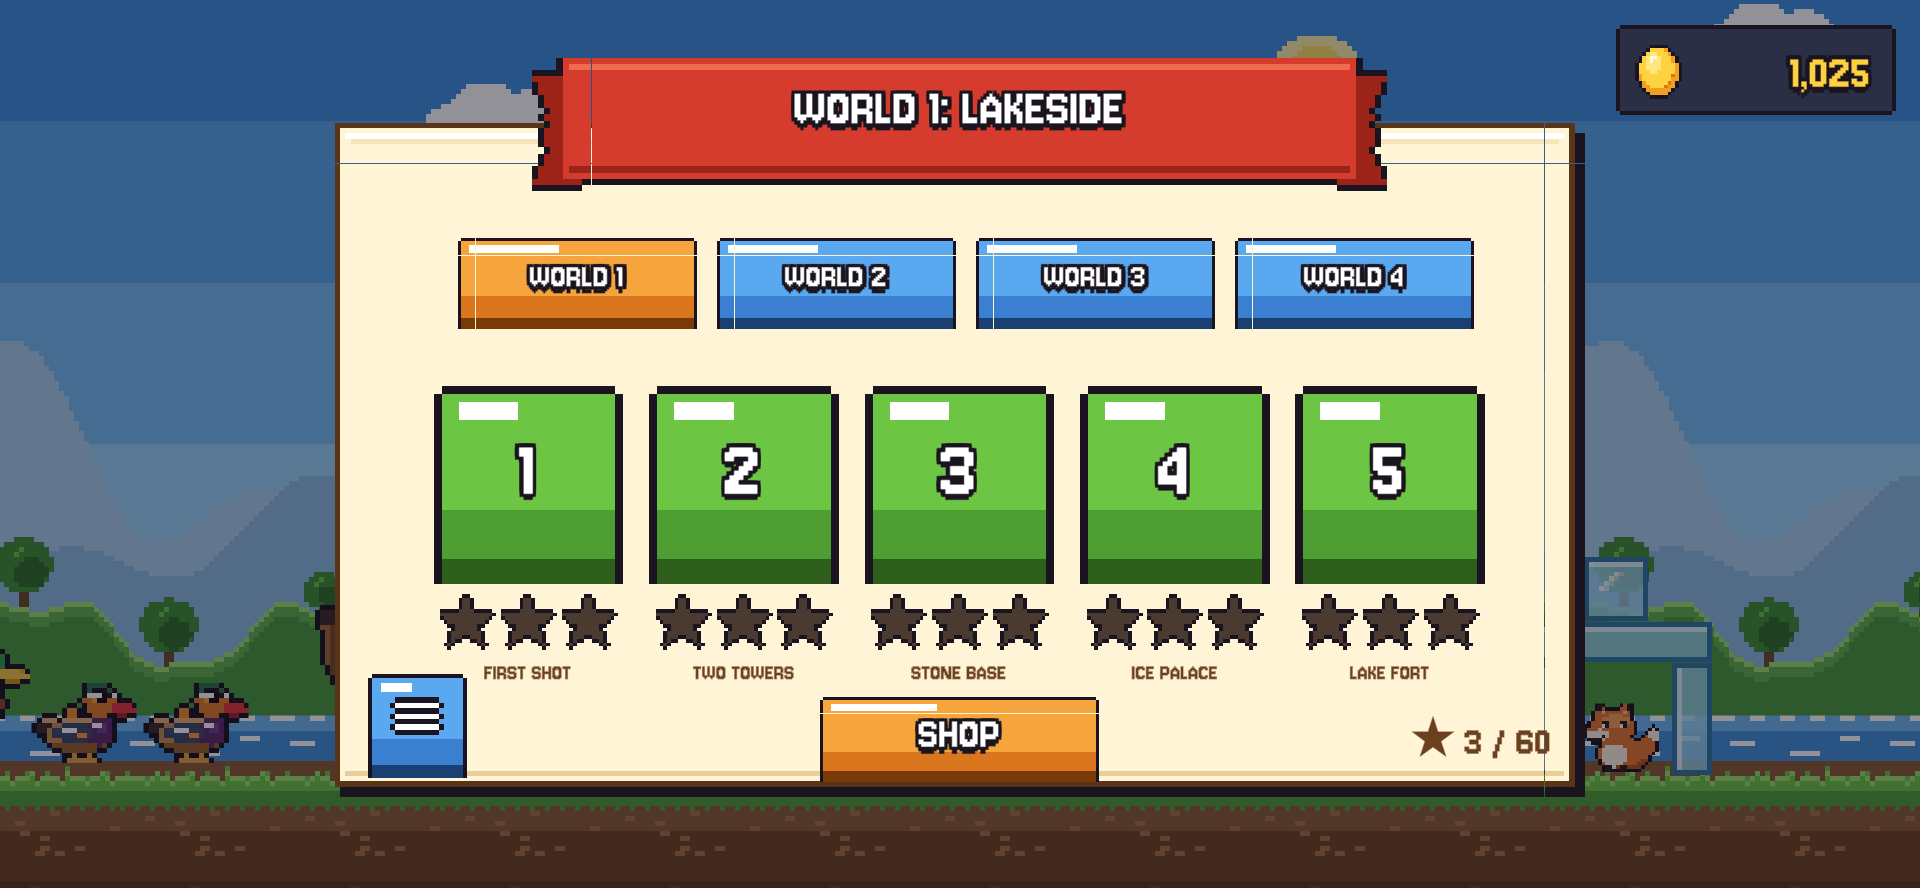
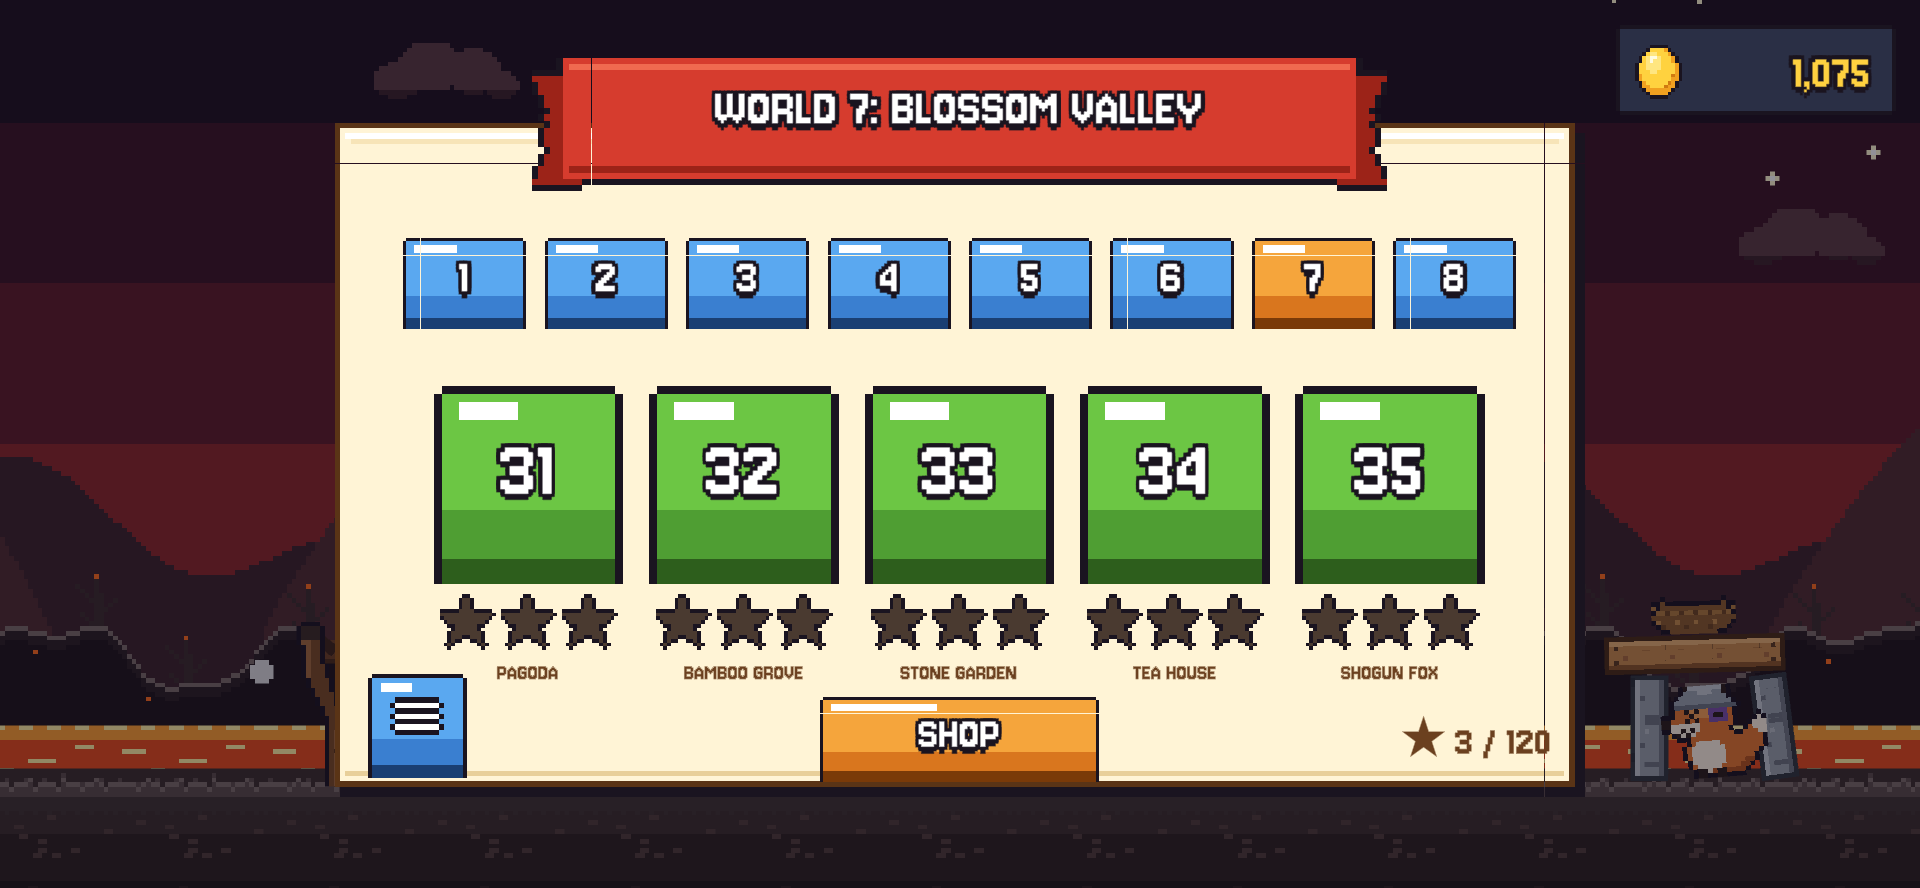
Docs: 40 levels / 8 worlds, tiered difficulty, audio, accounts & IAP plan
Claude-Session: https://claude.ai/code/session_019QKTqMNP3wFbmRnbw3M5ij

diff --git a/docs/index.html b/docs/index.html
@@ -6,7 +6,7 @@
 <title>DuckThis Feather Fury</title>
 <meta name="description" content="A pixel-art physics slingshot game for Android starring six kinds of ducks. The foxes stole the eggs — time to take them back.">
 <meta property="og:title" content="DuckThis Feather Fury">
-<meta property="og:description" content="Pixel-art physics slingshot game for Android. 20 levels, 6 ducks, Golden Eggs & upgrades.">
+<meta property="og:description" content="Pixel-art physics slingshot game for Android. 40 levels, 8 worlds, 6 ducks, Golden Eggs & upgrades.">
 <meta property="og:image" content="media/banner.png">
 <meta name="theme-color" content="#2a2f45">
 <link rel="icon" href="media/ducks/duck.png">
@@ -155,9 +155,9 @@
       <h2>Ducks. Foxes. Physics.</h2>
       <p class="lead">The foxes stole the eggs. Pull back the slingshot, pick the right duck and bring their wood, stone, ice and TNT forts crashing down. Then spend your recovered Golden Eggs to make your flock even stronger.</p>
       <div class="stats">
-        <div class="stat"><b>20</b><span>Levels</span></div>
+        <div class="stat"><b>40</b><span>Levels</span></div>
         <div class="stat"><b>6</b><span>Duck species</span></div>
-        <div class="stat"><b>4</b><span>Themed worlds</span></div>
+        <div class="stat"><b>8</b><span>Themed worlds</span></div>
         <div class="stat"><b>7</b><span>Languages</span></div>
       </div>
     </div>
@@ -193,9 +193,9 @@
       <div><h3>Real physics</h3><p>Damage comes from impact speed, mass and material. TNT crates chain-react, and cracks show exactly what's about to give.</p></div>
       <div><h3>Auto-Aim</h3><p>Upgrade a duck and it homes in on the nearest fox mid-flight. Three levels, from a gentle nudge to a heat-seeker.</p></div>
       <div><h3>Extra ducks</h3><p>Out of ducks? Tap <b>+</b> to call in reinforcements mid-level, or continue right after losing.</p></div>
-      <div><h3>Fair difficulty</h3><p>Foxes and forts toughen up gradually across the 20 levels. Upgrades help when you're stuck.</p></div>
+      <div><h3>Tiered difficulty</h3><p>Every world is a new tier: a breather, a build-up, then a boss fortress. Each world starts a step tougher, and upgrades keep you ahead.</p></div>
       <div><h3>Pixel craft</h3><p>Hand-placed 16 px art, parallax worlds, four pixel transition styles and chiptune effects.</p></div>
-      <div><h3>7 languages</h3><p>Turkish, English, German, Spanish, French, Portuguese and Italian, detected automatically.</p></div>
+      <div><h3>Music &amp; voices</h3><p>Three chiptune soundtracks, plus a unique quack, honk, hiss or whistle for every duck species.</p></div>
     </div>
   </div>
 </section>
@@ -210,6 +210,7 @@
         <tr><td>Each star</td><td><img class="egg px" src="media/ducks/ui_egg.png" alt=""><b>+10</b></td></tr>
         <tr><td>Destruction (0–100%)</td><td><img class="egg px" src="media/ducks/ui_egg.png" alt=""><b>up to +20</b></td></tr>
         <tr><td>First clear bonus</td><td><img class="egg px" src="media/ducks/ui_egg.png" alt=""><b>+15</b></td></tr>
+        <tr><td>Golden Nest (once each)</td><td><img class="egg px" src="media/ducks/ui_egg.png" alt=""><b>+3</b></td></tr>
         <tr><td>Losing (consolation)</td><td><img class="egg px" src="media/ducks/ui_egg.png" alt=""><b>up to +8</b></td></tr>
       </table>
       <table>
@@ -225,13 +226,17 @@
 
 <section class="alt" id="worlds">
   <div class="wrap">
-    <h2>Four worlds</h2>
-    <p class="lead">Each world has its own look, its own palette and a new duck to master.</p>
+    <h2>Eight worlds</h2>
+    <p class="lead">Each world has its own look and palette, and every one is a step tougher than the last.</p>
     <div class="gallery">
       <figure><div class="frame"><img src="media/world-level3.png" alt="Lakeside" loading="lazy"></div><figcaption>1 · Lakeside</figcaption></figure>
       <figure><div class="frame"><img src="media/world-level8.png" alt="Autumn Forest" loading="lazy"></div><figcaption>2 · Autumn Forest</figcaption></figure>
       <figure><div class="frame"><img src="media/world-level14.png" alt="Snowy Peaks" loading="lazy"></div><figcaption>3 · Snowy Peaks</figcaption></figure>
       <figure><div class="frame"><img src="media/world-level19.png" alt="Sunset Farm" loading="lazy"></div><figcaption>4 · Sunset Farm</figcaption></figure>
+      <figure><div class="frame"><img src="media/world-level23.png" alt="Desert Canyon" loading="lazy"></div><figcaption>5 · Desert Canyon</figcaption></figure>
+      <figure><div class="frame"><img src="media/world-level29.png" alt="Tropical Beach" loading="lazy"></div><figcaption>6 · Tropical Beach</figcaption></figure>
+      <figure><div class="frame"><img src="media/world-level31.png" alt="Blossom Valley" loading="lazy"></div><figcaption>7 · Blossom Valley</figcaption></figure>
+      <figure><div class="frame"><img src="media/world-level40.png" alt="Fire Mountain" loading="lazy"></div><figcaption>8 · Fire Mountain</figcaption></figure>
     </div>
     <div class="frame" style="margin-top:36px"><img src="media/gameplay-split.gif" alt="A Mandarin Duck splits into three and shatters an ice tower" loading="lazy"></div>
   </div>

diff --git a/MANIFEST.md b/MANIFEST.md
@@ -11,6 +11,7 @@
 | **Title** | DuckThis Feather Fury |
 | **Developer** | DuckThisGames |
 | **Genre** | Physics puzzle, slingshot |
+| **Content** | 40 levels · 8 worlds · 6 ducks |
 | **Platform** | Android (phone, landscape) |
 | **Engine** | Unity 6000.6.6f1 |
 | **Version** | 1.0 |
@@ -90,8 +91,12 @@ style.
 | 2 | Autumn Forest | 6–10 | Merganser |
 | 3 | Snowy Peaks | 11–15 | Muscovy Duck, Ruddy Shelduck |
 | 4 | Sunset Farm | 16–20 | Black Scoter |
+| 5 | Desert Canyon | 21–25 | Golden Nests |
+| 6 | Tropical Beach | 26–30 | – |
+| 7 | Blossom Valley | 31–35 | – |
+| 8 | Fire Mountain | 36–40 | Final: Fox Emperor (two bosses) |
 
-Each world introduces a new duck with an intro card. Levels mix materials so the new duck shines. Each
+Worlds 1–4 each introduce a new duck; worlds 5–8 remix all six ducks against bigger, tougher forts. Each new element gets an intro card. Levels mix materials so the new duck shines. Each
 world has its own parallax background, color palette and pixel transition style (dissolve, iris, blinds,
 diagonal).
 
@@ -110,10 +115,42 @@ Blocks get a 0.8 s spawn grace period so structures settle safely.
 
 ## 6. Difficulty curve
 
-The difficulty factor `d` goes from 0 at level 1 to 1 at level 20 (`d = level index / 19`).
+Difficulty rises in **tiers**, not in a straight line. Each world (5 levels) is one tier, and every new
+world makes foxes and blocks one step tougher. Inside a world the curve is a **sawtooth**:
 
-- **Fox health** × (1 + 0.5 · d), reaching ×1.5 at level 20.
-- **Block durability** × (1 + 0.3 · d), reaching ×1.3 at level 20.
+```
+World:   1       2       3       4       5       6       7       8
+       ▁▂▂▃▄   ▂▃▃▄▅   ▃▄▄▅▆   ▄▅▅▆▇   ▄▅▆▆▇   ▅▆▆▇█   ▅▆▇▇█   ▆▇▇██
+       └─ each world: breather → build-up → boss, then the next tier starts a step higher
+```
+
+- **Level 1 of a world** is a breather: a new theme, a smaller fort and a spare duck.
+- **Levels 2–4** build up with mixed materials and more foxes.
+- **Level 5** is a fortress with a boss fox.
+
+The next world opens with a short **"Tier N: foxes are X% tougher!"** banner, so the jump is visible and fair.
+
+| World | 1 | 2 | 3 | 4 | 5 | 6 | 7 | 8 |
+|---|---|---|---|---|---|---|---|---|
+| Fox health | ×1.00 | ×1.08 | ×1.16 | ×1.24 | ×1.32 | ×1.40 | ×1.48 | ×1.56 |
+| Block durability | ×1.00 | ×1.05 | ×1.10 | ×1.15 | ×1.20 | ×1.25 | ×1.30 | ×1.35 |
+
+Upgrades (Damage up to ×1.6, Auto-Aim) and extra ducks are designed to outpace this curve. A player who
+spends their Golden Eggs always has a way forward, while a player who skips the shop feels the climb.
+
+**Balancing target**, measured by the built-in AutoTester (a simple bot with no upgrades):
+
+| Level in world | Bot win rate |
+|---|---|
+| Breather (level 1) | ≥ 50% |
+| Mid levels (2–4) | 25–75% |
+| Boss (level 5) | 25–50% |
+
+### Golden Nests
+
+From world 5 onward, and in every boss level, forts hide **Golden Nests**. Breaking one pays **+3 Golden
+Eggs**, once per nest, forever. An empty nest stays behind on replays, so nests reward exploration and
+can't be farmed.
 
 **Stars** are based on the score:
 
@@ -135,7 +172,7 @@ The foxes stole the eggs, so recovering them *is* the currency.
 | First clear of a level | `+15` |
 | Loss | `round(destruction % × 8)` |
 
-A perfect first clear pays **65 eggs**. Twenty levels pay roughly 1,000 eggs on a first playthrough.
+A perfect first clear pays **65 eggs**. Forty levels pay roughly 2,000 eggs on a first playthrough, plus about **50** from Golden Nests.
 
 ### Spending (per duck species)
 
@@ -158,9 +195,38 @@ All UI is pixel-art IMGUI, scaled from a 1080 px reference height.
 
 ## 9. Audio
 
-Procedurally generated chiptune SFX: launch, flap, pop, dash, hit, thud, wood/stone/ice breaking,
-explosion, fox pop, click, star, slingshot stretch, win, lose and whoosh. Sound can be toggled from the
-main menu.
+All audio is procedurally synthesized chiptune, generated by Python scripts and imported by `GameBuilder`.
+
+### Duck voices
+
+Each species has its own **voice** (on launch), **ability sound** and **hit squawk**:
+
+| Duck | Voice | Ability |
+|---|---|---|
+| Mallard | Classic two-note "QUACK-quack" (sawtooth + formant filter) | Wing flutter |
+| Mandarin Duck | High, bird-like whistle trill | Sparkly arpeggio (split) |
+| Merganser | Low, gravelly "krrr-ak" | Rising jet whoosh |
+| Muscovy Duck | Hiss and grunt (real Muscovies hiss) | Falling whistle and heavy thump |
+| Ruddy Shelduck | Nasal, goose-like "ang-ang" honk | Egg "plop" and spring "boing" |
+| Black Scoter | Melodic, descending whistle (real scoters whistle) | Fuse hiss, then the explosion |
+
+### Music
+
+Three seamless loops: square-wave lead, arpeggio, triangle bass and noise drums.
+
+| Track | Key / tempo | Where it plays |
+|---|---|---|
+| `music_menu` | C major, 112 BPM | Menus, level select, shop |
+| `music_world` | G major, 128 BPM | Worlds 1–4 |
+| `music_world2` | A minor, 140 BPM | Worlds 5–8 (more driving) |
+
+Tracks cross-fade when you move between menus and levels. The music ducks while the game is paused or on
+the lose screen. Music and sound effects have separate toggles in the main menu.
+
+### Sound effects
+
+Launch, slingshot stretch, hits, wood/stone/ice breaking, explosions, fox pop, stars, win/lose and
+transitions.
 
 ## 10. Technical specification
 
@@ -171,7 +237,7 @@ main menu.
 | Level data | Plain C# (`Levels.cs`), built at runtime by `LevelLoader` |
 | Persistence | `PlayerPrefs` (stars, best scores, eggs, upgrades, inventory, language) |
 | Build | IL2CPP, ARM64, minimum API 26 (Android 8.0), landscape auto-rotate |
-| Tooling | `GameBuilder` one-click setup; `AutoTester` plays all 20 levels automatically for stability and winnability checks |
+| Tooling | `GameBuilder` one-click setup; `AutoTester` plays all 40 levels automatically for stability and winnability checks |
 
 ## 11. Quality bar
 
@@ -179,12 +245,46 @@ main menu.
 - **Winnable:** every level must be beatable with its given ducks and no upgrades.
 - **Pixel-perfect UI:** text must stay legible at every resolution, and font sizes are quantized to keep the glyph atlas stable.
 
-## 12. Roadmap
+## 12. Accounts & purchases (planned)
+
+These are **not in the game yet**; this section is the agreed direction so the code can grow toward it.
+
+### Accounts
+
+- **Playing never requires an account.** Every player starts as a **guest**.
+- Players can **optionally** sign in later with **Google** (Google Play Games Services on Android) or **email**
+  (e.g. Firebase Auth or Unity Authentication).
+- Signing in **links** the guest profile, so the player keeps all progress. Progress then syncs to the cloud
+  for backup and device changes.
+- **Merge rule** when a cloud save already exists: the higher value always wins (stars, best score, eggs,
+  upgrades, collected nests), so nobody loses progress.
+- **Already in the code:** `PlayerProfile.cs` gives every install a stable guest `PlayerId`. It has an
+  account type (Guest / Google / Email) and `Export()` / `Import()` methods that serialize the whole save
+  (stars, best scores, eggs, upgrades, inventory, nests) to JSON with the merge rule above.
+- The login UI and backend are still to come.
+
+### In-app purchases
+
+- **Golden Eggs stay the single currency.** You earn them by playing, and later you'll also be able to buy
+  them in packs. A second "premium" currency would add complexity without value at this scale.
+- **Candidates:**
+  - Egg packs (small / medium / large).
+  - A one-time **Starter Pack** with eggs and extra ducks.
+  - **Remove ads**, if ads are ever added.
+- **Fairness:** every level stays winnable without paying. Purchases speed things up; they don't gate content.
+- **Tech:**
+  - Unity IAP / Google Play Billing.
+  - Server-side receipt validation.
+  - Purchases tied to the account, so they restore on a new device. Guests are prompted to sign in before
+    buying.
+- **Compliance:** privacy policy, KVKK / GDPR consent, Google Play Families and age rating, and clear prices.
+
+## 13. Roadmap
 
 | Version | Goals |
 |---|---|
-| **1.0** ✅ | 20 levels, 6 ducks, Golden Eggs & shop, 7 languages |
-| Next | Background music, more worlds, daily challenges, Google Play release |
+| **1.0** ✅ | 40 levels in 8 worlds, tiered difficulty, 6 ducks with unique voices, Golden Eggs & Nests, shop, background music, 7 languages |
+| Next | Optional Google / email accounts with cloud save, then in-app egg packs; daily challenges; Google Play release |
 
 ---
 

diff --git a/README.md b/README.md
@@ -10,7 +10,7 @@
 [![Unity](https://img.shields.io/badge/Unity-6000.6.6f1-222?logo=unity&logoColor=white)](https://unity.com/)
 [![Platform](https://img.shields.io/badge/Platform-Android-3DDC84?logo=android&logoColor=white)](#-download)
 [![Version](https://img.shields.io/badge/Version-1.0-f0a020)](CHANGELOG.md)
-[![Levels](https://img.shields.io/badge/Levels-20-d63c2e)](#-worlds)
+[![Levels](https://img.shields.io/badge/Levels-40-d63c2e)](#-worlds)
 [![Languages](https://img.shields.io/badge/Languages-7-4a90e2)](#-localization)
 
 [**Download**](#-download) · [**Game Manifest**](MANIFEST.md) · [**Changelog**](CHANGELOG.md) · [**Build from source**](#-build-from-source)
@@ -57,8 +57,11 @@ Rewards based on stars and destruction, plus a first-clear bonus.
 **🛒 Shop and upgrades**<br>
 Damage (+15% per level), **Auto-Aim** (the duck homes in on foxes) and extra ducks for each species.
 
-**🌍 20 levels, 4 worlds**<br>
-Each world has its own theme, parallax background and pixel transition effect. Difficulty ramps up gradually.
+**🌍 40 levels, 8 worlds**<br>
+Each world has its own theme and parallax background. Difficulty rises in tiers: every world is one step tougher, with a breather at the start and a boss fortress at the end.
+
+**🎵 Music & duck voices**<br>
+Three chiptune soundtracks, plus a unique voice, ability sound and squawk for every duck species.
 
 **🌐 7 languages**<br>
 Turkish, English, German, Spanish, French, Portuguese and Italian.
@@ -102,6 +105,7 @@ and the **Fox King** (huge). They blink, panic when a duck is in the air, and fl
 | Each star earned | **+10** |
 | Destruction rate (0–100%) | **up to +20** |
 | First time clearing a level | **+15** |
+| Breaking a **Golden Nest** 🪺 (once per nest) | **+3** |
 | Losing a level | up to +8 (consolation) |
 
 | Upgrade (per duck) | Levels | Effect | Cost |
@@ -118,8 +122,24 @@ and the **Fox King** (huge). They blink, panic when a duck is in the air, and fl
 
 | | |
 |:-:|:-:|
-| <img src="docs/media/world-level3.png"> **World 1: Lakeside** | <img src="docs/media/world-level8.png"> **World 2: Autumn Forest** |
-| <img src="docs/media/world-level14.png"> **World 3: Snowy Peaks** | <img src="docs/media/world-level19.png"> **World 4: Sunset Farm** |
+| <img src="docs/media/world-level3.png"> **1 · Lakeside** | <img src="docs/media/world-level8.png"> **2 · Autumn Forest** |
+| <img src="docs/media/world-level14.png"> **3 · Snowy Peaks** | <img src="docs/media/world-level19.png"> **4 · Sunset Farm** |
+| <img src="docs/media/world-level23.png"> **5 · Desert Canyon** | <img src="docs/media/world-level29.png"> **6 · Tropical Beach** |
+| <img src="docs/media/world-level31.png"> **7 · Blossom Valley** | <img src="docs/media/world-level40.png"> **8 · Fire Mountain** |
+
+### 📈 Tiered difficulty
+
+Each world is a **tier**. Inside a world, difficulty follows a sawtooth: a **breather** level first, then a
+build-up, then a **boss fortress**. Every new world starts one step tougher and announces it with a
+*"Tier N: foxes are X% tougher!"* banner.
+
+| World | 1 | 2 | 3 | 4 | 5 | 6 | 7 | 8 |
+|---|:-:|:-:|:-:|:-:|:-:|:-:|:-:|:-:|
+| Fox health | ×1.00 | ×1.08 | ×1.16 | ×1.24 | ×1.32 | ×1.40 | ×1.48 | ×1.56 |
+| Block durability | ×1.00 | ×1.05 | ×1.10 | ×1.15 | ×1.20 | ×1.25 | ×1.30 | ×1.35 |
+
+Upgrades and extra ducks are tuned to outpace the curve, so there is always a way forward. See the
+[Game Manifest](MANIFEST.md#6-difficulty-curve) for details.
 
 ## 📸 Screenshots
 
@@ -128,6 +148,7 @@ and the **Fox King** (huge). They blink, panic when a duck is in the air, and fl
 | <img src="docs/media/splash.png"><br>Splash | <img src="docs/media/menu.png"><br>Main menu |
 | <img src="docs/media/level-select.png"><br>Level select | <img src="docs/media/new-duck.png"><br>New duck introduction |
 | <img src="docs/media/level-clear.png"><br>Level clear, with Golden Egg reward | <img src="docs/media/shop.png"><br>Shop |
+| <img src="docs/media/tier-intro.png"><br>New tier banner & Golden Nest tip | <img src="docs/media/add-duck.png"><br>Add a duck mid-level |
 
 ## 📥 Download
 
@@ -192,9 +213,11 @@ Assets/
     ├── BirdType.cs       duck stats & material multipliers
     ├── Fox.cs            enemies
     ├── Destructible.cs   damage model for blocks & foxes
-    ├── Levels.cs         20 level layouts (data in code)
+    ├── Levels.cs         40 level layouts (data in code)
     ├── LevelLoader.cs    level & theme building, difficulty scaling
     ├── Loc.cs            localization (7 languages)
+    ├── Music.cs          background music with cross-fades
+    ├── PlayerProfile.cs  guest profile & save export / import (groundwork for accounts)
     └── …                 Slingshot, CameraRig, Fx, Sfx, Explosion, EggBomb, AutoTester
 ```
 
@@ -209,18 +232,20 @@ The device language is detected automatically. You can switch languages from the
 
 ## 🗺 Roadmap
 
-- [x] 20 levels, 6 ducks, 4 fox types
-- [x] Golden Egg economy, shop and upgrades
+- [x] 40 levels in 8 worlds with tiered difficulty
+- [x] 6 ducks with unique voices, 4 fox types
+- [x] Golden Egg economy, Golden Nests, shop and upgrades
+- [x] Background music (3 tracks)
 - [x] 7 languages
-- [ ] Background music
-- [ ] More worlds and levels
+- [ ] Optional accounts (Google / email) with cloud save; playing as a guest stays possible
+- [ ] In-app Golden Egg packs (see the [plan](MANIFEST.md#12-accounts--purchases-planned))
 - [ ] Google Play release
 
 ## 🇹🇷 Türkçe
 
 **DuckThis Feather Fury** is a pixel-art, physics-based slingshot game for Android starring ducks.
 
-You face the foxes' wood, stone, ice and TNT forts across 20 levels and 4 worlds, with 6 duck species that
+You face the foxes' wood, stone, ice and TNT forts across 40 levels and 8 worlds, with 6 duck species that
 each have their own ability. At the end of each level you earn **Golden Eggs** based on your stars and
 destruction. In the shop you can spend them on **Damage**, **Auto-Aim** and **Extra Duck** for each species.
 

diff --git a/CHANGELOG.md b/CHANGELOG.md
@@ -2,6 +2,20 @@
 
 ## 1.0
 
+### Content update
+
+- **20 new levels**, for a total of **40 levels in 8 worlds**. New worlds: Desert Canyon, Tropical Beach,
+  Blossom Valley and Fire Mountain, each with its own pixel-art theme.
+- **Tiered difficulty.** Each world is one tier, with a breather, a build-up and a boss. Every world starts a
+  step tougher and shows a tier banner.
+- **Golden Nests:** breakable bonus nests that pay +3 Golden Eggs, once each.
+- **Duck voices:** every species has its own launch voice, ability sound and hit squawk.
+- **Background music:** a menu theme and two world themes, with cross-fades and a separate music toggle.
+- The level select now shows 8 world tabs.
+- Groundwork for future accounts: a guest `PlayerProfile` with save export / import.
+
+### Initial release
+
 - 20 levels across 4 worlds, with 4 different pixel transition effects.
 - 6 duck species with abilities: Mallard, Mandarin Duck, Merganser, Muscovy Duck, Ruddy Shelduck and Black Scoter.
 - Golden Egg economy, a shop (Damage, Auto-Aim, Extra Duck), adding extra ducks during a level, and continuing after losing.
